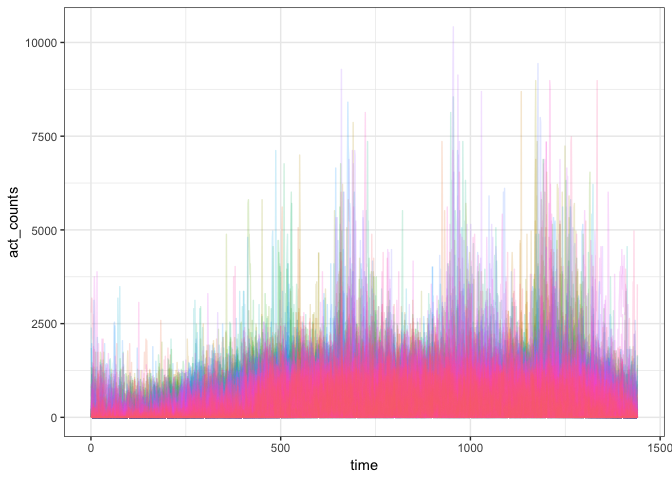
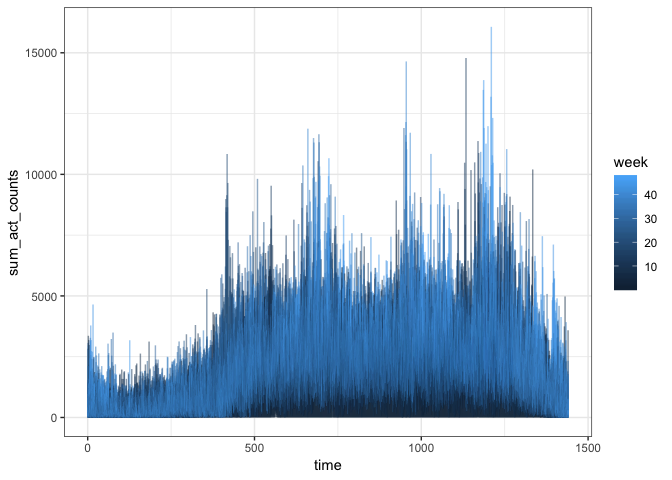
Finish the traditional analysis.

diff --git a/p8105_mtp_hx2263.md b/p8105_mtp_hx2263.md
@@ -3,6 +3,9 @@ p8105\_mtp\_hx2263
 Tiffany Xi
 10/16/2018
 
+Load, tidy & EDA
+================
+
 ### Load dataset
 
 Import the data file with `read_csv` using relative path.
@@ -163,24 +166,8 @@ am_data_tidy_1 %>%
 
 ![](p8105_mtp_hx2263_files/figure-markdown_github/outlier_dist-1.png)
 
-``` r
-am_data_tidy %>% 
-  group_by(week, day) %>% 
-  ggplot(aes(x = time, y = act_counts, color = week)) +
-  facet_grid( ~ day) +
-  geom_line(alpha = .4)
-```
-
-![](p8105_mtp_hx2263_files/figure-markdown_github/unnamed-chunk-4-1.png)
-
-``` r
-am_data_tidy %>% 
-  mutate(id = as.integer(rownames(am_data_tidy))) %>% 
-  ggplot(aes(x = id, y = act_counts))+
-  geom_line()
-```
-
-![](p8105_mtp_hx2263_files/figure-markdown_github/unnamed-chunk-5-1.png)
+Traditional analyses
+====================
 
 ### Using your tidied dataset, aggregate accross minutes to create a total activity variable.
 
@@ -207,7 +194,7 @@ total_activity_over_day
     ## 10     2 Tuesday   293201
     ## # ... with 319 more rows
 
-### Using these data, explore the hypothesis that this participant became more active over time. You may want to want to make comparisons visually and quantitatively.
+### Using these data, explore the hypothesis that this participant became more active over time.
 
 ### Visually
 
@@ -226,7 +213,7 @@ total_activity_over_day %>%
 
     ## `geom_smooth()` using method = 'loess' and formula 'y ~ x'
 
-![](p8105_mtp_hx2263_files/figure-markdown_github/unnamed-chunk-7-1.png)
+![](p8105_mtp_hx2263_files/figure-markdown_github/unnamed-chunk-5-1.png)
 
 This participant did become more active over time based on the increasing trend of the smooth line.
 
@@ -253,16 +240,24 @@ According to the results of two-samples paired test, p-value is 0.0095 smaller t
 ### Examine the possibility that day of the week affects activity (in isolation to the effect of time)
 
 ``` r
-am_data_tidy %>% 
+total_activity_over_day %>% 
   group_by(day) %>% 
-  summarise(dow_total = sum(act_counts)) %>% 
+  summarise(dow_total = mean(total)) %>% 
   ggplot(aes(x = day, y = dow_total, fill = day)) +
   viridis::scale_fill_viridis(name = "Day of week", discrete = TRUE) +
   geom_bar(stat = "identity") +
-  theme_bw()
+  theme_bw()+ 
+  labs(
+    title = "Total Activity Over the Day",
+    x = "Day of the Week",
+    y = "Day of the Week Effects on Activity",
+    caption = "Data from p8105_mtp_data"
+  )
 ```
 
-![](p8105_mtp_hx2263_files/figure-markdown_github/unnamed-chunk-9-1.png)
+![](p8105_mtp_hx2263_files/figure-markdown_github/unnamed-chunk-7-1.png)
+
+Day of the week does affect total activity over the day. This patient are tend to be more active in Sunday and Friday, and less active in Monday and Tuesday. The reason may be there are some regular activities like party or scheduled rehabilitation in Sunday and Friday, he will be tired in Monday and get some rest so stay in room in first two weekdays.
 
 ### Examine the possibility that day of the week affects activity (in addition to the effect of time)
 
@@ -272,14 +267,23 @@ am_data_tidy %>%
   summarise(dow_act_counts = mean(act_counts)) %>% 
   ggplot(aes(x = time, y = dow_act_counts, color = day)) +
   geom_smooth(se = FALSE, size = .5) +
-  theme_bw()
+  theme_bw()+ 
+  labs(
+    title = "Activity Over the Time",
+    x = "Time of a Day",
+    y = "Day of the Week Effects on Activity in Addition to the Effect of Time",
+    caption = "Data from p8105_mtp_data"
+  )
 ```
 
     ## `geom_smooth()` using method = 'gam' and formula 'y ~ s(x, bs = "cs")'
 
-![](p8105_mtp_hx2263_files/figure-markdown_github/unnamed-chunk-10-1.png)
+![](p8105_mtp_hx2263_files/figure-markdown_github/unnamed-chunk-8-1.png)
 
-*Comment*: Day of the week does affect activity in addition to the effect of time
+*Comment*: Day of the week does affect activity in addition to the effect of time. Curve of thursday, friday,and sunday have larger flu
+
+Inspect activity over the course of the day
+===========================================
 
 ### Explore the distribution of activity counts in the full dataset, taking into account other variables of interest.
 
@@ -293,7 +297,21 @@ am_data_tidy %>%
 
     ## `geom_smooth()` using method = 'gam' and formula 'y ~ s(x, bs = "cs")'
 
-![](p8105_mtp_hx2263_files/figure-markdown_github/unnamed-chunk-11-1.png)
+![](p8105_mtp_hx2263_files/figure-markdown_github/unnamed-chunk-9-1.png)
+
+``` r
+am_data_tidy %>% 
+  mutate(week = as.character(week)) %>% 
+  group_by(week, time) %>% 
+  summarise(total_week = mean(act_counts)) %>%
+  ggplot(aes(x = time, y = total_week, color = week)) +
+  geom_smooth(se = FALSE, size = .5) +
+  theme(legend.position = "none")
+```
+
+    ## `geom_smooth()` using method = 'gam' and formula 'y ~ s(x, bs = "cs")'
+
+![](p8105_mtp_hx2263_files/figure-markdown_github/unnamed-chunk-10-1.png)
 
 ### Make a visualization to show the 24-hour activity “profiles” for each day
 
@@ -308,7 +326,7 @@ am_data_tidy %>%
   theme(legend.position = "none")
 ```
 
-![](p8105_mtp_hx2263_files/figure-markdown_github/unnamed-chunk-12-1.png)
+![](p8105_mtp_hx2263_files/figure-markdown_github/unnamed-chunk-11-1.png)
 
 ### Visualize effect of week on activity in each minute of the 24-hour day
 
@@ -321,7 +339,7 @@ am_data_tidy %>%
   theme_bw() 
 ```
 
-![](p8105_mtp_hx2263_files/figure-markdown_github/unnamed-chunk-13-1.png)
+![](p8105_mtp_hx2263_files/figure-markdown_github/unnamed-chunk-12-1.png)
 
 ### day of the week effects on activity in each minute of the 24-hour day; incorporating smooth estimates of mean activity profiles may clarify these effects. Comment on relationships you think are interesting.
 
@@ -338,7 +356,7 @@ am_data_tidy %>%
 
     ## `geom_smooth()` using method = 'gam' and formula 'y ~ s(x, bs = "cs")'
 
-![](p8105_mtp_hx2263_files/figure-markdown_github/unnamed-chunk-14-1.png)
+![](p8105_mtp_hx2263_files/figure-markdown_github/unnamed-chunk-13-1.png)
 
 ``` r
 am_data_tidy %>% 
@@ -352,7 +370,7 @@ am_data_tidy %>%
 
     ## `geom_smooth()` using method = 'gam' and formula 'y ~ s(x, bs = "cs")'
 
-![](p8105_mtp_hx2263_files/figure-markdown_github/unnamed-chunk-15-1.png)
+![](p8105_mtp_hx2263_files/figure-markdown_github/unnamed-chunk-14-1.png)
 
 *Comment*: The 24-hour activity profiles for every day of the week are mostly identical to each other. so the patient had a relatively regular lifestyle.
 
